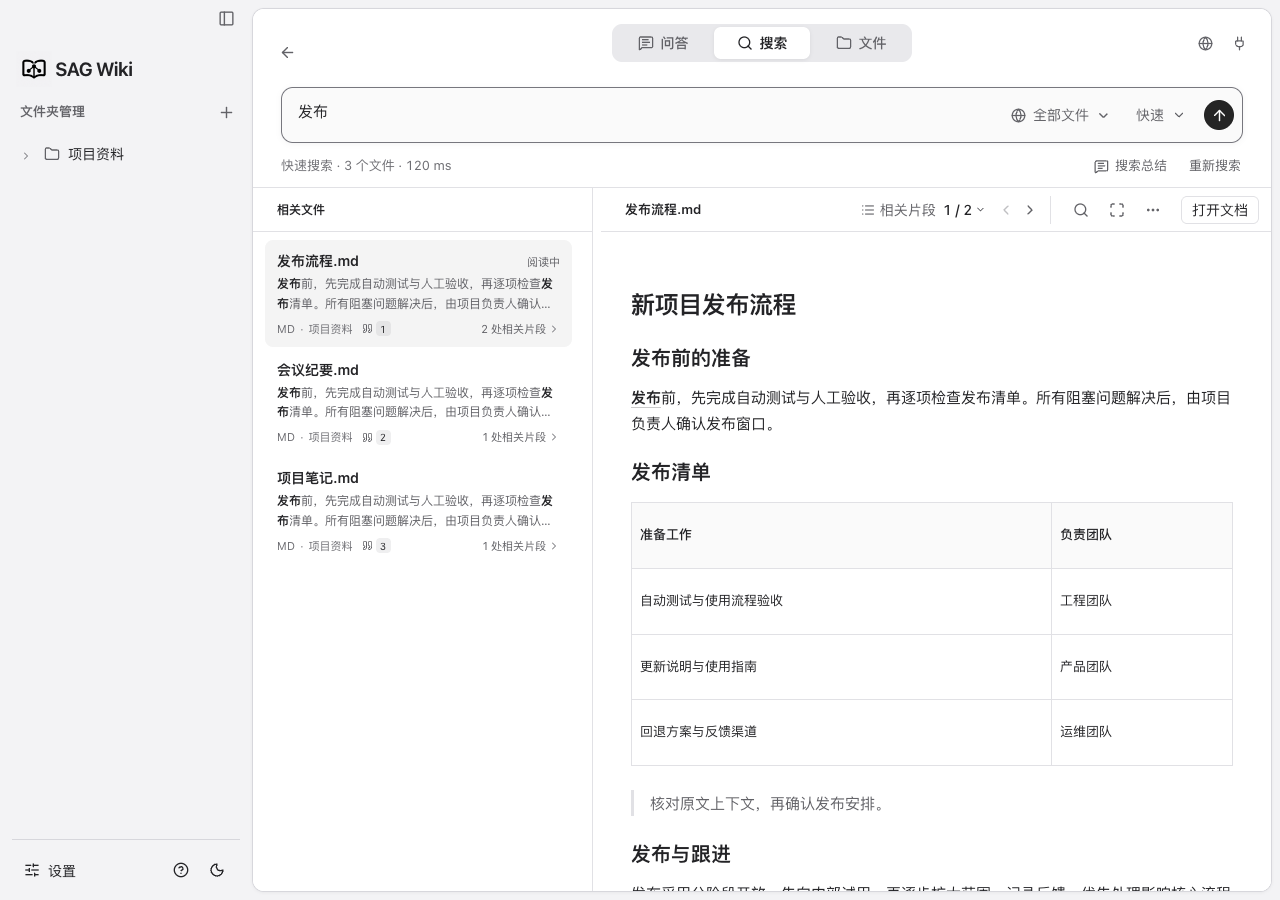
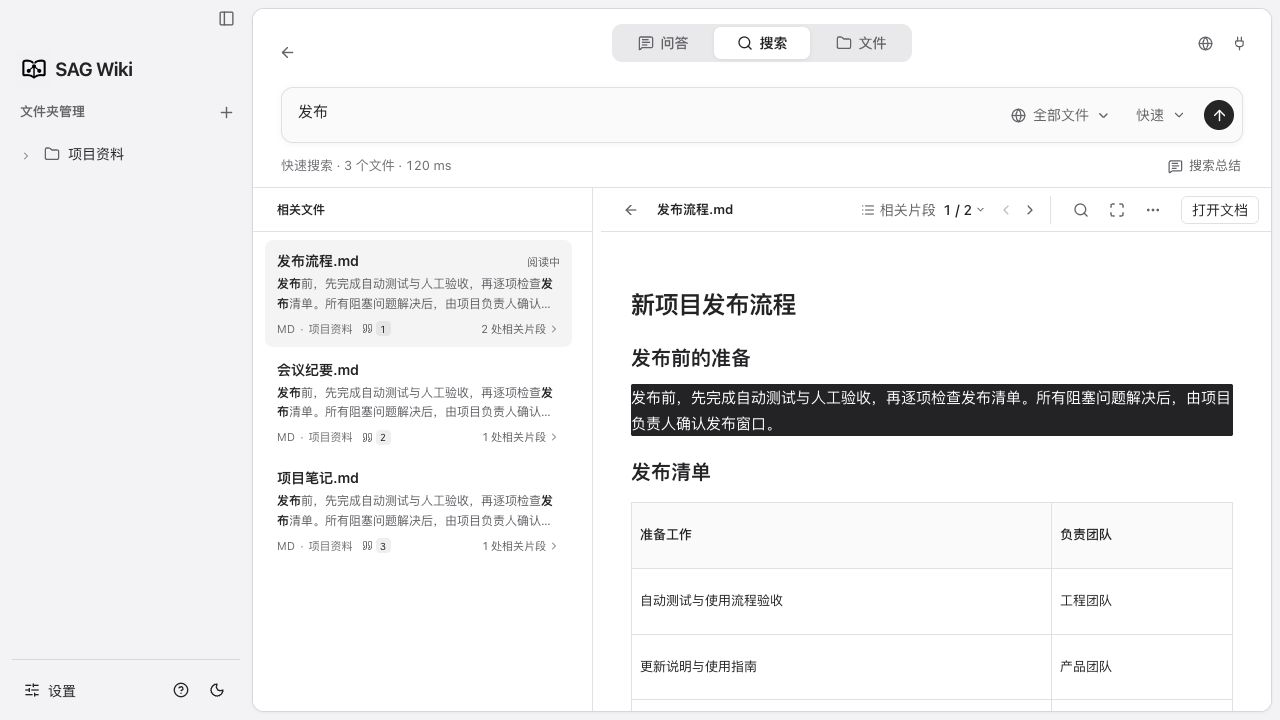
改进搜索总结与原文定位，并增加定时更新检查 (#37)
* fix(deps): upgrade happy-dom to patched 21.0.4

(cherry picked from commit 9705204ac150d03efa43309f93f8d2c8482a92df)

* Improve search summaries, highlights and periodic update checks

(cherry picked from commit cfd964785a4ece03ea74da3f2a4949b443de70a7)

* Fix source passage highlighting for semantic search

(cherry picked from commit 020c91a48fe168e01bc393539ff11c484b935b6b)

* Fix search passage scrolling and desktop file watching

(cherry picked from commit 6b19e303b3cd934da40280342780c6f702d762cf)

* Fix HTML search paragraph highlight contrast

---------

diff --git a/src/App.svelte b/src/App.svelte
@@ -56,7 +56,7 @@
  $:if(selected&&!librarySessions[selected])librarySessions={...librarySessions,[selected]:createLibrarySession()};
  let roots:Root[]=[],files:FileInfo[]=[],conversations:Conversation[]=[],settings:Settings|null=null,cache:Record<string,Entry[]>={},expanded=new Set<string>(JSON.parse(localStorage.getItem('sag.sidebar.expanded')??'[]'));
  let readOnlyDoc:Document|null=null;let searchTerms:string[]=[],documentSearchTerms:string[]=[];
- let previewReader:{doc:Document;Reader:typeof import('./components/MarkdownReader.svelte').default;model:import('./lib/document-model').MarkdownModel;target:number}|null=null;
+ let previewReader:{doc:Document;Reader:typeof import('./components/MarkdownReader.svelte').default;model:import('./lib/document-model').MarkdownModel;target:number;terms:string[]}|null=null;
 let previewDocument:Document|null=null,previewInitialMatch=0,previewLoading=false,previewError='',previewRequest=0;
  let view='ask',selected='',readingFolder='',collapsed=false,conversation:Conversation|null=null,ask='',search='',searched=false,results:Candidate[]=[],focus:Candidate|null=null,preview='',source:Candidate|null=null;
  let sidebarMotion=false,sidebarAnimations:Animation[]=[];
@@ -368,6 +368,7 @@ let previewDocument:Document|null=null,previewInitialMatch=0,previewLoading=fals
  async function stopSummary(){const id=summaryJob;summaryJob='';summaryBusy=false;if(id)await api('cancel_query',{id});}
  async function summarizeSearch(question:string,candidates:Candidate[]){
   if(settings?.search_summary_enabled===false||!candidates.length||!answerReady)return;
+  summarySelected=true;lastSearchFocus=candidates[0];
   const id=crypto.randomUUID();summaryJob=id;summaryBusy=true;summaryError='';summaryText='';summaryEvidence=documentResults(candidates).slice(0,settings?.search_summary_sources??10).map(group=>group.first);
   try{const output=await api<{text:string;evidence:Candidate[]}>('summarize_search',{id,question,results:summaryEvidence});if(summaryJob===id){summaryText=output.text;summaryEvidence=output.evidence}}
   catch(e){if(summaryJob===id)summaryError=$t(String(e))}
@@ -454,7 +455,7 @@ let previewDocument:Document|null=null,previewInitialMatch=0,previewLoading=fals
    const output=await api<QueryOutput>('run_query',{query:{id,kind,question,scope,references:kind==='ask'?references:[],model:settings.answer.model,conversation_id:kind==='ask'?conversationId:null,replace_from:replaceFrom??null,page:kind==='search'?(page??1):null}});
    if((kind==='ask'?askJob:searchJob)!==id)return;
    if(kind==='ask'){conversation=output.conversation;pending=null;references=[];await history()}
-   else{searchTerms=output.terms||[];results=output.results;searchRanked=kind==='deep_search';searchElapsed=output.elapsed_ms??null;searchPagination=kind==='deep_search'?{total:documentResults(output.results).length,page:1,page_size:20}:output.pagination??null;searchPage=searchPagination?.page??1;await tick();if(searchList)searchList.scrollTop=0;if(page===undefined){activeResult=0;passagesOpen=false}const kept=results.find(c=>c.path===focus?.path);if(kept)void focusResult(kept,true);else if(results.length)void focusResult(results[0]);else{focus=null;previewRequest++}if(page===undefined)void summarizeSearch(question,output.results);}
+   else{searchTerms=output.terms||[];results=output.results;searchRanked=kind==='deep_search';searchElapsed=output.elapsed_ms??null;searchPagination=kind==='deep_search'?{total:documentResults(output.results).length,page:1,page_size:20}:output.pagination??null;searchPage=searchPagination?.page??1;await tick();if(searchList)searchList.scrollTop=0;if(page===undefined){activeResult=0;passagesOpen=false;void summarizeSearch(question,output.results)}if(page!==undefined||!summarySelected){const kept=results.find(c=>c.path===focus?.path);if(kept)void focusResult(kept,true);else if(results.length)void focusResult(results[0]);else{focus=null;previewRequest++}}}
   }catch(e){
    if((kind==='ask'?askJob:searchJob)===id){
     if(kind==='ask'){error=$t(String(e));if(pending)pending={...pending,status:'failed',error};await history()}
@@ -465,7 +466,7 @@ let previewDocument:Document|null=null,previewInitialMatch=0,previewLoading=fals
    else if(searchJob===id){searchBusy=false;paging=false;searchPage=searchPagination?.page??1;searchStage='';searchJob=''}
   }
  }
-// Search results prioritize source reading; the summary is an explicit secondary view.
+// New searches open the automatic summary; selecting a result opens its source.
  let activeResult=0,resultsFocused=false,passagesOpen=false,passageReturn:HTMLElement|null=null;
  let searchFocusMode=false,summarySelected=false,lastSearchFocus:Candidate|null=null;
  let previewFindOpen=false,previewFindDraft='',previewFindTerm='',previewFindInput:HTMLInputElement;
@@ -475,7 +476,7 @@ let previewDocument:Document|null=null,previewInitialMatch=0,previewLoading=fals
  $:focusedGroup=focus?rankedGroups.find(group=>group.first.path===focus?.path):null;
  $:focusedPassages=focusedGroup?.matches??(focus?[focus]:[]);
  $:passageIndex=Math.max(0,focusedPassages.findIndex(c=>c.id===focus?.id));
- $:readerTerms=previewFindOpen&&previewFindTerm?[previewFindTerm]:searchTerms;
+ $:readerTerms=previewFindOpen?(previewFindTerm?[previewFindTerm]:searchTerms):previewReader?.doc===previewDocument?previewReader.terms:searchTerms;
  $:readerMemoryKey=previewDocument?JSON.stringify([searchSession,searchGeneration,previewDocument.path,previewDocument.hash,previewFindTerm]):'';
  $:if(view!=='search'){passagesOpen=false;searchFocusMode=false;}
 
@@ -541,17 +542,19 @@ let previewDocument:Document|null=null,previewInitialMatch=0,previewLoading=fals
    const remembered=rememberedCandidates.get(candidate.path);
    const c=restore&&remembered?remembered:candidate;
    if(focus?.id===c.id&&previewDocument&&!previewLoading&&restore){summarySelected=false;return;}
-   restorePreview=restore;summarySelected=false;previewFindOpen=false;previewFindDraft='';previewFindTerm='';
+   restorePreview=false;summarySelected=false;previewFindOpen=false;previewFindDraft='';previewFindTerm='';
   const index=groups.findIndex(group=>group.first.path===c.path);if(index>=0)activeResult=index;
   focus=c;rememberedCandidates.set(c.path,c);previewDocument=null;preview='';previewError='';previewLoading=true;const request=++previewRequest;
   try{
    const doc=await api<Document>('read_document',{path:c.path});
    if(request!==previewRequest||focus?.id!==c.id)return;
    if(isMarkdown(c.path)&&!legacyPreview()){
-    const [{markdownModel,candidateRanges},{default:Reader}]=await Promise.all([import('./lib/document-model'),import('./components/MarkdownReader.svelte')]);
+    const [{markdownModel,candidateRanges,modelCitationTerms},{default:Reader}]=await Promise.all([import('./lib/document-model'),import('./components/MarkdownReader.svelte')]);
     if(request!==previewRequest||focus?.id!==c.id)return;
-    const model=markdownModel(doc);
-    previewReader={doc,Reader,model,target:candidateRanges(model,c)[0].from};previewDocument=doc;preview='';
+    const model=markdownModel(doc),ranges=candidateRanges(model,c);
+    const terms=await modelCitationTerms(model,c,ranges);
+    if(request!==previewRequest||focus?.id!==c.id)return;
+    previewReader={doc,Reader,model,target:ranges[0].from,terms};previewDocument=doc;preview='';
     if(doc.hash!==c.hash)previewError=$t('原文件已更新，以下显示当前内容。');
     return;
    }
@@ -606,7 +609,7 @@ let previewDocument:Document|null=null,previewInitialMatch=0,previewLoading=fals
  <div class="composer-wrap"><Popover.Root bind:open={mention}><Popover.Portal to=".real-client"><Popover.Content class="mention-picker" customAnchor={composer} collisionBoundary={workspaceContent} side={mentionSide} sideOffset={6} collisionPadding={8} align="start" trapFocus={false} onOpenAutoFocus={event=>event.preventDefault()} onCloseAutoFocus={event=>event.preventDefault()}><div class="mention-heading">{$t("@ 引用文件")}</div>{#if !files.length}<div class="mention-empty" aria-live="polite">{@html icon('folder')}<strong>{$t('知识库还没有可引用的文件')}</strong><p>{$t('添加文件夹并完成索引后，就可以用 @ 选择要引用的文件。')}</p><Button.Root type="button" class="outline mention-add-folder" onclick={()=>{mention=false;add()}}>{@html icon('plus')}{$t('添加文件夹')}</Button.Root></div>{:else if !mentions.length}<div class="mention-empty" aria-live="polite">{@html icon('search')}<strong>{$t('没有匹配的文件')}</strong><p>{$t('试试其他文件名或路径关键词。')}</p></div>{:else}<div class="mention-options" role="listbox" aria-label={$t("引用文件")}>{#each mentions as f,i}<Button.Root role="option" aria-selected={i===mentionIndex} onmousedown={(event:MouseEvent)=>{event.preventDefault();(()=>reference(f.path))();}}>{@html icon('file')}<span><strong>{f.name}</strong><small>{displayPath(f.path)}</small></span></Button.Root>{/each}</div><div class="mention-help">{$t("↑ ↓ 选择 · Enter 引用 · Esc 关闭")}</div>{/if}</Popover.Content></Popover.Portal></Popover.Root><form class="composer" class:busy bind:this={composer} use:mentionPlacement on:submit|preventDefault={()=>run('ask')}><div class="reference-chips">{#each references as path}<span class="reference-chip">{@html icon('file')}<span>{basename(path)}</span><Button.Root type="button" aria-label={$t("移除引用 {value0}",{value0:basename(path)})} onclick={()=>references=references.filter(p=>p!==path)}>{@html icon('close')}</Button.Root></span>{/each}</div><Textarea aria-label={$t("向你的文件提问")} bind:ref={askInput} bind:value={ask} oninput={mentionUpdate} onkeydown={askKey} onkeyup={compositionKeyUp} oncompositionstart={compositionStart} oncompositionend={compositionEnd} placeholder={busy?$t("回答生成中，可以先输入下一个问题…"):$t("向你的文件提问，输入 @ 引用文件…")}/><div class="composer-bottom"><div class="composer-options"><Button.Root class="scope-button" type="button" aria-haspopup="dialog" aria-expanded={scopeOpen} onclick={scopeShow}>{@html icon(scope.length?'folder':'globe')}<span>{scopeLabel}</span>{@html icon('down')}</Button.Root></div><div class="composer-model-controls">{#if settings}<ContextUsage context={busy?pending?.context:conversation?.messages.at(-1)?.context} limit={settings.answer_context_tokens??65536} loading={busy&&!pending?.context}/><ReasoningControl model={settings.answer.model} models={settings.answer.models} onModelChange={model=>{if(settings)settings={...settings,answer:{...settings.answer,model}}}} endpoint={settings.answer.url} value={settings.model_profiles?.[settings.answer.model]?.reasoning_effort} disabled={busy} onChange={setReasoning} onCommit={saveReasoning}/>{/if}{#if busy}<Button.Root type="button" class="send" aria-label={$t("停止生成")} onclick={()=>stop()}>{@html icon('stop')}</Button.Root>{:else}<Button.Root class="send" aria-label={$t("发送问题")} disabled={!ask.trim()}>{@html icon('arrow')}</Button.Root>{/if}</div></div></form></div>{#if !shownMessages.length&&!pending&&conversations.length}<section class="recent-conversations" aria-label={$t("会话列表")}><div class="recent-heading"><span>{$t("会话列表")}</span><Button.Root class="icon-button" title={$t("搜索会话")} aria-label={$t("搜索会话")} onclick={()=>historySearchOpen=true}>{@html icon('search')}</Button.Root></div><div class="recent-list">{#each conversations as c(c.id)}<div class="history-row" class:active={view==='ask'&&conversation?.id===c.id}><Button.Root class="conversation-item" title={c.title} onclick={()=>chooseHistory(c)}>{@html icon('chat')}<span>{c.title}</span></Button.Root><Timestamp value={c.updated}/><Button.Root class="history-more" aria-label={$t("{value0} 的选项",{value0:c.title})} onclick={(e:MouseEvent)=>chatMenu(e,c)}>{@html icon('more')}</Button.Root></div>{:else}<p class="history-empty">{$t("还没有问答记录")}</p>{/each}</div></section>{/if}</section></div>
  {:else if view==='search'}<section class="search-page" class:has-results={searched} aria-busy={busy}>{#if !searched}<div class="welcome search-welcome"><div class="welcome-mark" aria-hidden="true">{@html icon('search')}</div><h1>{$t("搜索你的文件")}</h1><p>{$t("查找文件内容，随时查看原文。")}</p></div>{/if}<div class="search-query-row"><form class="search-composer" class:compact={searched} on:submit|preventDefault={()=>run(searchMode)}><div class="search-entry"><Input aria-label={$t("搜索关键词")} bind:ref={searchInput} bind:value={search} onkeydown={searchKey} onkeyup={compositionKeyUp} oncompositionstart={compositionStart} oncompositionend={compositionEnd} placeholder={$t("输入关键词或问题，搜索你的文件…")}/></div><div class="search-composer-bottom"><Button.Root class="scope-button" type="button" aria-haspopup="dialog" aria-expanded={scopeOpen} onclick={scopeShow}>{@html icon(scope.length?'folder':'globe')}<span>{scopeLabel}</span>{@html icon('down')}</Button.Root><div class="search-composer-actions"><Select class="search-mode" label={$t("搜索模式")} value={searchMode} onValueChange={changeSearchMode} disabled={busy} items={[{value:"deep_search",label:jevReady?$t("深入"):$t("深入（需配置 Jev）")},{value:"search",label:$t("快速")}]}/>{#if busy}<Button.Root type="button" class="send" aria-label={$t("停止搜索")} onclick={()=>stop()}>{@html icon('stop')}</Button.Root>{:else}<Button.Root class="send" aria-label={$t("搜索文件")} disabled={!search.trim()}>{@html icon('arrow')}</Button.Root>{/if}</div></div></form></div>
  {#if !searched&&searchHistory.length}<section class="search-history" aria-label={$t("最近搜索")}><div class="search-history-heading"><span>{$t("最近搜索")}</span><Button.Root class="icon-button" aria-label={$t("清空搜索历史")} title={$t("清空搜索历史")} onclick={clearSearchHistory}>{@html icon('delete')}</Button.Root></div><div class="search-history-items">{#each searchHistory as question}<Button.Root class="search-history-item" title={question} onclick={()=>{search=question;void run(searchMode)}}>{@html icon('search')}<span>{question}</span></Button.Root>{/each}</div></section>{/if}{#if searched}
- <div class="search-options-row"><div class="search-summary"><span aria-live="polite">{searchStopped?$t("已停止搜索 · "):''}{busy&&!paging?$t(searchJobKind==='deep_search'?"深入搜索中":"快速搜索中"):`${searchRanked?$t("深入搜索"):$t("快速搜索")} · ${$t("{value0} 个文件",{value0:searchPagination?.total??groups.length})}`}{#if searchElapsed!==null&&!(busy&&!paging)}{' · '}{searchElapsed<1000?`${searchElapsed} ms`:$t("{value0} 秒",{value0:(searchElapsed/1000).toFixed(1)})}{/if}</span></div><div class="search-options-actions">{#if showSummary}<Button.Root class="search-summary-toggle" aria-label={$t('搜索总结')} aria-pressed={summarySelected} onclick={toggleSearchSummary}>{@html icon('chat')}<span>{$t('搜索总结')}</span>{#if summaryBusy}<span class="summary-running" aria-hidden="true"></span>{/if}</Button.Root>{/if}<Button.Root class="search-new-query" onclick={()=>resetSearch().catch(e=>notify($t(String(e))))}>{$t('重新搜索')}</Button.Root></div></div>
+ <div class="search-options-row"><div class="search-summary"><span aria-live="polite">{searchStopped?$t("已停止搜索 · "):''}{busy&&!paging?$t(searchJobKind==='deep_search'?"深入搜索中":"快速搜索中"):`${searchRanked?$t("深入搜索"):$t("快速搜索")} · ${$t("{value0} 个文件",{value0:searchPagination?.total??groups.length})}`}{#if searchElapsed!==null&&!(busy&&!paging)}{' · '}{searchElapsed<1000?`${searchElapsed} ms`:$t("{value0} 秒",{value0:(searchElapsed/1000).toFixed(1)})}{/if}</span></div><div class="search-options-actions">{#if showSummary}<Button.Root class="search-summary-toggle" aria-label={$t('搜索总结')} aria-pressed={summarySelected} onclick={toggleSearchSummary}>{@html icon('chat')}<span>{$t('搜索总结')}</span>{#if summaryBusy}<span class="summary-running" aria-hidden="true"></span>{/if}</Button.Root>{/if}</div></div>
  {#if searchError}<p class="form-error" role="alert">{$t(searchError)}{#if searchError===$t("请在设置中填写 Jev API 密钥")}<Button.Root class="settings-error-link" onclick={()=>{settingsPage="jev";settingsOpen=true}}>{$t("前往设置")}</Button.Root>{/if}</p>{/if}{#if busy&&!paging}
  <div class="search-loading" role="status" aria-live="polite" aria-atomic="true"><div class="search-skeleton" aria-hidden="true">{#each [0,1,2,3] as row}<span style={`--row:${row}`}></span>{/each}</div><strong>{searchStageText}</strong></div>
  {:else if groups.length}
@@ -620,7 +623,7 @@ let previewDocument:Document|null=null,previewInitialMatch=0,previewLoading=fals
   <article class="search-preview" class:showing-summary={!focus} class:search-finding={previewFindOpen}>
    {#if focus}
     <div class="search-preview-head">
-     <Button.Root class="icon-button search-preview-back list-only" aria-label={$t("返回结果列表")} onclick={leaveSearchReader}>{@html icon('back')}</Button.Root>
+     <Button.Root class={`icon-button search-preview-back${showSummary?'':' list-only'}`} aria-label={$t(showSummary?"返回搜索总结":"返回结果列表")} title={$t(showSummary?"返回搜索总结":"返回结果列表")} onclick={showSummary?toggleSearchSummary:leaveSearchReader}>{@html icon('back')}</Button.Root>
      <div class="search-preview-title"><strong title={sourceName(focus)}>{sourceName(focus)}</strong><span class="source-path" title={displayPath(indexedSourcePath(focus.path))}>{sourceFolder(focus.path,roots)}</span></div>
      <div class="search-preview-actions">
       <div class="search-passage-nav" role="group" aria-label={$t('相关片段')}>
@@ -637,8 +640,8 @@ let previewDocument:Document|null=null,previewInitialMatch=0,previewLoading=fals
     {#if previewFindOpen}<form class="search-find-bar" on:submit|preventDefault={applyPreviewFind}><label for="preview-find">{$t('正文查找')}</label><input id="preview-find" bind:this={previewFindInput} bind:value={previewFindDraft} placeholder={$t('输入词语，按 Enter 查找')}/><Button.Root type="submit">{$t('查找')}</Button.Root><Button.Root type="button" class="icon-button" aria-label={$t('关闭正文查找')} onclick={closePreviewFind}>{@html icon('close')}</Button.Root></form>{/if}
     {#if previewError}<p class="small muted search-preview-note" role="status">{previewError}</p>{/if}
     {#if previewLoading}<div class="search-preview-loading" role="status"><span class="search-skeleton" aria-hidden="true">{#each [0,1,2] as row}<span style={`--row:${row}`}></span>{/each}</span><span class="sr-only">{$t("正在读取文件…")}</span></div>{:else if previewDocument}
-     {#key `${previewRequest}:${previewFindTerm}`}
-      {#if isHtml(focus.path)}<HtmlDocument body={previewDocument.body} terms={readerTerms} initialMatch={previewFindTerm?0:previewInitialMatch} showNavigation={previewFindOpen} memoryKey={readerMemoryKey} restoreScroll={restorePreview}/>
+     {#key `${previewRequest}:${previewFindOpen}:${previewFindTerm}`}
+      {#if isHtml(focus.path)}<HtmlDocument paragraphHighlight body={previewDocument.body} terms={readerTerms} initialMatch={previewFindTerm?0:previewInitialMatch} showNavigation={previewFindOpen} memoryKey={readerMemoryKey} restoreScroll={restorePreview}/>
       {:else if previewReader?.doc===previewDocument}<svelte:component this={previewReader.Reader} model={previewReader.model} terms={readerTerms} target={previewFindTerm?0:previewReader.target} path={displayPath(focus.path)} showNavigation={previewFindOpen} memoryKey={readerMemoryKey} restoreScroll={restorePreview}/>
       {:else}<HighlightedDocument html={preview} terms={readerTerms} path={displayPath(focus.path)} initialMatch={previewFindTerm?0:previewInitialMatch} showNavigation={previewFindOpen} memoryKey={readerMemoryKey} restoreScroll={restorePreview}/>{/if}
      {/key}

diff --git a/src/styles/search.css b/src/styles/search.css
@@ -10,14 +10,14 @@
 .real-client .search-composer.compact .search-entry input{padding:6px 0;font-size:var(--text-reading)}
 .real-client .search-composer.compact .search-composer-bottom{flex-shrink:0;gap:10px}
 .real-client .search-composer.compact .send{width:30px;height:30px}
-/* Status on the left, the two page-level actions on the right: one line between the input and the columns. */
+/* Status on the left, the summary action on the right: one line between the input and the columns. */
 .search-options-row{display:flex;align-items:center;justify-content:space-between;gap:16px;flex-shrink:0;min-height:44px;margin:0}
 .has-results .search-options-row{padding:4px 20px 2px 28px}
 .real-client .search-summary{display:flex;align-items:center;min-width:0;margin:0;padding:0;border:0;color:var(--color-muted);font-size:var(--text-caption);font-variant-numeric:tabular-nums}
 .search-summary span{overflow:hidden;white-space:nowrap;text-overflow:ellipsis}
 .search-options-actions{display:flex;align-items:center;gap:2px;flex-shrink:0}
-.real-client .search-summary-toggle,.real-client .search-new-query{display:inline-flex;align-items:center;gap:6px;height:30px;min-height:30px;padding:0 10px;border-radius:7px;background:transparent;color:var(--color-secondary);font-size:var(--text-caption);white-space:nowrap}
-.real-client .search-summary-toggle:hover,.real-client .search-new-query:hover{background:var(--color-hover);color:var(--color-ink)}
+.real-client .search-summary-toggle{display:inline-flex;align-items:center;gap:6px;height:30px;min-height:30px;padding:0 10px;border-radius:7px;background:transparent;color:var(--color-secondary);font-size:var(--text-caption);white-space:nowrap}
+.real-client .search-summary-toggle:hover{background:var(--color-hover);color:var(--color-ink)}
 .search-summary-toggle .icon{width:15px;height:15px}
 .real-client .search-summary-toggle[aria-pressed=true]{background:var(--color-selected);color:var(--color-ink)}
 .summary-running{width:5px;height:5px;border-radius:50%;background:var(--color-secondary);animation:summary-pulse 1.2s ease-in-out infinite}
@@ -68,9 +68,10 @@
 .real-client .search-preview .search-preview-body img{max-width:100%;height:auto}
 .real-client .search-results .search-hit{background:transparent;color:var(--color-ink);font-weight:600;box-shadow:none;padding:0}
 .real-client .search-preview .search-hit{background:transparent;color:inherit;box-shadow:none;border-radius:2px;padding:0}
-.real-client .search-preview .search-hit.active{font-weight:550;text-decoration:underline;text-decoration-color:color-mix(in srgb,var(--color-ink) 24%,transparent);text-underline-offset:4px}
 .real-client .search-preview.search-finding .search-hit{background:color-mix(in srgb,var(--color-ink) 8%,transparent);box-decoration-break:clone;-webkit-box-decoration-break:clone}
-.real-client .search-preview.search-finding .search-hit.active{background:color-mix(in srgb,var(--color-ink) 16%,transparent)}
+.real-client .search-preview .search-active-paragraph{background:var(--color-ink);color:var(--color-paper);border-radius:2px}
+.real-client .search-preview .search-active-paragraph *{color:inherit}
+.real-client .search-preview .search-active-paragraph :is(.search-hit,code){background:transparent;color:inherit;box-shadow:none;text-decoration:none}
 /* The passage picker drops down from its control in the header. */
 .search-preview>.search-passage-picker{top:48px;right:12px;width:min(460px,calc(100% - 24px));max-height:min(520px,calc(100% - 64px))}
 .search-summary-back{display:flex;align-items:center;gap:10px;height:44px;padding:0 16px;border-bottom:1px solid var(--color-rule);font-size:13px}

diff --git a/tests/html-document.test.ts b/tests/html-document.test.ts
@@ -2,9 +2,44 @@
 import {loadDocumentBridge} from './helpers/document-bridge';
 import {afterEach,expect,it,vi} from 'vitest';
 import {mount,tick,unmount} from 'svelte';
+import {JSDOM} from 'jsdom';
 import HtmlDocument from '../src/components/HtmlDocument.svelte';
 let app:ReturnType<typeof mount>|null=null;
 afterEach(async()=>{if(app)await unmount(app);app=null;document.body.innerHTML='';});
+it.each([
+ {label:'白底黑字',style:'background-color:#fff;color:#000',color:'rgb(0, 0, 0)',background:'rgb(255, 255, 255)'},
+ {label:'透明背景黑字',style:'color:#000',color:'rgb(0, 0, 0)',background:'rgba(0, 0, 0, 0)'},
+ {label:'深底白字',style:'background-color:#111;color:#fff',color:'rgb(255, 255, 255)',background:'rgb(17, 17, 17)'},
+])('选中 HTML 段落时保留原文对比度：$label',async({style,color,background})=>{
+ app=mount(HtmlDocument,{target:document.body,props:{body:`<p style="background-color:#fff;color:#000">needle <span style="${style}">原文内容</span></p>`,terms:['needle'],paragraphHighlight:true}});
+ await tick();
+ const frame=document.querySelector('iframe')!;
+ const doc=new DOMParser().parseFromString(frame.getAttribute('srcdoc')!,'text/html');
+ loadDocumentBridge(frame,doc);await tick();
+ expect(doc.querySelector('.search-active-paragraph')?.tagName).toBe('P');
+ // Evaluate the real generated styles after the real bridge selects a match.
+ const rendered=new JSDOM(doc.documentElement.outerHTML);
+ try{
+  const paragraph=rendered.window.document.querySelector('p')!;
+  const content=rendered.window.document.querySelector('span')!;
+  expect(rendered.window.getComputedStyle(content).color).toBe(color);
+  expect(rendered.window.getComputedStyle(content).backgroundColor).toBe(background);
+  expect(rendered.window.getComputedStyle(paragraph).backgroundColor).toBe('rgb(255, 255, 255)');
+ }finally{rendered.window.close()}
+});
+it('搜索原文按完整段落选中，嵌套列表不会连带选中父项，切换时清除旧段落',async()=>{
+ app=mount(HtmlDocument,{target:document.body,props:{body:'<ul><li>父项<ul><li><p>段首 <strong>needle</strong> 段尾。</p></li></ul></li></ul><p>下一段 needle。</p>',terms:['needle'],paragraphHighlight:true}});
+ await tick();
+ const frame=document.querySelector('iframe')!;
+ const doc=new DOMParser().parseFromString(frame.getAttribute('srcdoc')!,'text/html');
+ loadDocumentBridge(frame,doc);await tick();
+ expect(doc.querySelectorAll('.search-active-paragraph')).toHaveLength(1);
+ expect(doc.querySelector('.search-active-paragraph')?.textContent).toBe('段首 needle 段尾。');
+ expect(doc.querySelector('li.search-active-paragraph')).toBeNull();
+ document.querySelector<HTMLButtonElement>('[aria-label="下一处匹配"]')!.click();await tick();
+ expect(doc.querySelectorAll('.search-active-paragraph')).toHaveLength(1);
+ expect(doc.querySelector('.search-active-paragraph')?.textContent).toBe('下一段 needle。');
+});
 it('保留 HTML 页面样式和 SVG 图形，高亮正文并切换匹配',async()=>{
  const body='<style>p{color:red}</style><p>早先 Token</p><h2>目标 Token</h2><svg><text x="10" y="20">Token</text></svg><script>Token()</script>';
  app=mount(HtmlDocument,{target:document.body,props:{body,terms:['Token'],initialMatch:1}});

diff --git a/tests/search.test.ts b/tests/search.test.ts
@@ -9,7 +9,7 @@ vi.mock('@tauri-apps/api/window',()=>({getCurrentWindow:()=>({onCloseRequested:a
 vi.mock('@tauri-apps/plugin-dialog',()=>({open:vi.fn()}));
 let app:ReturnType<typeof mount>;
 afterEach(async()=>{await unmount(app);document.body.innerHTML='';vi.clearAllMocks()});
-const hit={id:1,document_id:1,path:'/files/open-octx.md',title:'open-octx.md',heading:'',content:'OCTX 是一种格式。第二处 octx。',start_line:1,end_line:1,source_ranges:[[1,1]],source_spans:[],bm25:-1,score:0,order:0,hash:'same'};
+const hit={id:1,document_id:1,path:'/files/open-octx.md',title:'open-octx.md',heading:'',content:'OCTX 是一种格式。',start_line:3,end_line:3,source_ranges:[[3,3]],source_spans:[],bm25:-1,score:0,order:0,hash:'same'};
 async function setup(pending=false,mode='deep_search',paginated=false,deepResults?:typeof hit[]){
  invoke.mockImplementation(async(command,args)=>{
   if(command==='get_settings')return {theme:'light',start_page:'search',editor_size:15,answer:{url:'https://example.com/v1',model:'test',models:['test'],has_key:false},jev:{url:'https://example.com/v1',model:'jev',models:[],has_key:true},retrieval:{candidate_k:50,seed_k:10,expansion_term_limit:20,max_hops:1,top_k:10,chunk_chars:512},show_hidden:false,watch:true,excluded:[],timeout_secs:120,answer_context_tokens:65536,answer_output_tokens:0};
@@ -155,9 +155,9 @@ describe('深度搜索返回状态',()=>{
 
 describe('搜索结果里的原文高亮',()=>{
  it('摘要和片段高亮，下一处移动当前位置，修改输入不影响已完成的搜索',async()=>{
-  await setup();await vi.waitFor(()=>expect(document.querySelectorAll('.search-preview .search-hit')).toHaveLength(2));
+  await setup();await vi.waitFor(()=>expect(document.querySelectorAll('.search-preview .search-hit')).toHaveLength(1));
   expect(document.querySelector('.search-result mark')!.textContent).toBe('octx');
-  expect(document.querySelector('.search-preview .search-hit.active')!.textContent).toBe('OCTX');
+  expect(document.querySelector('.search-preview .search-active-paragraph')!.textContent).toBe('OCTX 是一种格式。');
   await click('在文档中查找');await click('下一处匹配');expect(document.querySelector('.search-preview .search-hit.active')!.textContent).toBe('octx');
   const input=document.querySelector<HTMLInputElement>('[aria-label="搜索关键词"]')!;input.value='新问题';input.dispatchEvent(new Event('input',{bubbles:true}));await tick();
   expect(document.querySelectorAll('.search-preview .search-hit')).toHaveLength(2);

diff --git a/tests/app-updates.test.ts b/tests/app-updates.test.ts
@@ -19,7 +19,7 @@ const click=(text:string)=>{
  expect(button, text).toBeDefined();button!.click();
 };
 beforeEach(()=>{setLanguage('zh-CN');updateDownload.set({key:'',version:'',stage:'idle',downloaded:0,total:null,error:''});updateState.set({key:'',checking:false,info:null,error:''});invoke.mockReset();invoke.mockResolvedValue(latest)});
-afterEach(async()=>{for(const app of apps.splice(0))await unmount(app);document.body.innerHTML=''});
+afterEach(async()=>{for(const app of apps.splice(0))await unmount(app);vi.useRealTimers();document.body.innerHTML=''});
 
 it('checks at startup, shows a new-version prompt and opens About on click',async()=>{
  const onOpen=vi.fn();
@@ -29,6 +29,35 @@ it('checks at startup, shows a new-version prompt and opens About on click',asyn
  document.querySelector<HTMLButtonElement>('.update-open')!.click();await tick();
  expect(onOpen).toHaveBeenCalledOnce();
  expect(document.querySelector('.update-notification')).toBeNull();
+});
+
+it('checks every eight hours while mounted and stops checking after unmount',async()=>{
+ vi.useFakeTimers({toFake:['setInterval','clearInterval']});
+ const interval=8*60*60*1000;
+ apps.push(mount(UpdateNotification,{target:document.body,props:{config:{...defaultUpdateSettings},onOpen:vi.fn()}}));
+ await tick();expect(invoke).toHaveBeenCalledOnce();
+ await vi.advanceTimersByTimeAsync(interval-1);
+ expect(invoke).toHaveBeenCalledOnce();
+ await vi.advanceTimersByTimeAsync(1);
+ expect(invoke).toHaveBeenCalledTimes(2);
+ await vi.advanceTimersByTimeAsync(interval);
+ expect(invoke).toHaveBeenCalledTimes(3);
+ await unmount(apps.pop()!);
+ await vi.advanceTimersByTimeAsync(interval);
+ expect(invoke).toHaveBeenCalledTimes(3);
+});
+
+it('skips scheduled checks while a request is pending and retries on a later interval',async()=>{
+ vi.useFakeTimers({toFake:['setInterval','clearInterval']});
+ let resolve!:(info:UpdateInfo)=>void;
+ invoke.mockImplementationOnce(()=>new Promise<UpdateInfo>(done=>resolve=done));
+ apps.push(mount(UpdateNotification,{target:document.body,props:{config:{...defaultUpdateSettings},onOpen:vi.fn()}}));
+ await tick();expect(invoke).toHaveBeenCalledOnce();
+ await vi.advanceTimersByTimeAsync(8*60*60*1000);
+ expect(invoke).toHaveBeenCalledOnce();
+ resolve(latest);await tick();
+ await vi.advanceTimersByTimeAsync(8*60*60*1000);
+ expect(invoke).toHaveBeenCalledTimes(2);
 });
 
 it('downloads in app, keeps progress across settings navigation, and only installs on request',async()=>{

diff --git a/src/components/HighlightedDocument.svelte b/src/components/HighlightedDocument.svelte
@@ -1,5 +1,5 @@
 <script lang="ts">
- import{onDestroy,tick}from 'svelte';import{highlightedHtml}from '../lib/search-highlights';import MatchNavigation from './MatchNavigation.svelte';
+ import{onDestroy,tick}from 'svelte';import{highlightedHtml,selectSearchMatches}from '../lib/search-highlights';import MatchNavigation from './MatchNavigation.svelte';
  import {quietScroll} from '../lib/quiet-scroll';
  import {readReaderScroll,rememberReaderScroll} from '../lib/reader-scroll';
  export let html='';export let terms:string[]=[];export let path='';export let initialMatch=0;
@@ -10,16 +10,15 @@
  $:highlighted=highlightedHtml(html,terms);
  $:if(highlighted){index=0;void showDocument(highlighted);}
  async function showDocument(content:{html:string;count:number}){
-  await tick();if(content!==highlighted)return;
+  await tick();if(content!==highlighted||!host)return;
   selectMatch(Math.min(initialMatch,Math.max(0,highlighted.count-1)),!saved);
   if(saved){host.scrollTop=saved.top;host.scrollLeft=saved.left;saved=undefined}
   if(path&&host.querySelector('img[data-source]')){const {hydrateImages}=await import('../lib/markdown');await hydrateImages(host,path);}
  }
  function selectMatch(next:number,scroll=true){
   if(!highlighted.count)return;index=(next+highlighted.count)%highlighted.count;
-  host.querySelectorAll('.search-hit.active').forEach(mark=>mark.classList.remove('active'));
-  const marks=host.querySelectorAll<HTMLElement>(`[data-search-match="${index}"]`);
-  marks.forEach(mark=>mark.classList.add('active'));if(scroll)marks[0]?.scrollIntoView({block:'center'});
+  const marks=[...host.querySelectorAll<HTMLElement>(`[data-search-match="${index}"]`)];
+  selectSearchMatches(host,marks);if(scroll)marks[0]?.scrollIntoView({block:'center'});
  }
  function remember(){if(host)rememberReaderScroll(positionKey,{top:host.scrollTop,left:host.scrollLeft})}
  onDestroy(remember);

diff --git a/src/components/HtmlDocument.svelte b/src/components/HtmlDocument.svelte
@@ -6,6 +6,7 @@
  import {readReaderScroll,rememberReaderScroll} from '../lib/reader-scroll';
  export let body='';export let terms:string[]=[];export let initialMatch=0;
  export let showNavigation=true;export let memoryKey='';export let restoreScroll=false;
+ export let paragraphHighlight=false;
  let html='',count=0,index=0,ready=false,frame:HTMLIFrameElement;
  const positionKey=memoryKey;
  let saved=restoreScroll?readReaderScroll(positionKey):undefined;
@@ -22,6 +23,7 @@
   count=highlightDocument(doc,terms);ready=false;
   const style=doc.createElement('style');
   style.textContent=`mark.search-hit{background:rgba(80,80,80,.1)!important;color:inherit!important;border-radius:2px}mark.search-hit.active{background:rgba(80,80,80,.2)!important;box-shadow:0 1px 0 rgba(80,80,80,.35)}tspan.search-hit{stroke:rgba(80,80,80,.1)!important;stroke-width:4px!important;paint-order:stroke fill}tspan.search-hit.active{stroke:rgba(80,80,80,.2)!important}
+   .search-active-paragraph{outline:2px solid #777!important;outline-offset:2px;border-radius:2px}
    *{scrollbar-width:thin;scrollbar-color:transparent transparent}html.sag-scroll-active,html.sag-scroll-active *{scrollbar-color:rgba(100,100,100,.4) transparent}::-webkit-scrollbar{width:6px;height:6px}::-webkit-scrollbar-track{background:transparent}::-webkit-scrollbar-thumb{background:transparent;border-radius:6px}html.sag-scroll-active::-webkit-scrollbar-thumb,html.sag-scroll-active ::-webkit-scrollbar-thumb{background:rgba(100,100,100,.4)}`;
   doc.head.append(style);
   html='<!DOCTYPE html>'+doc.documentElement.outerHTML;
@@ -41,7 +43,7 @@
  }
  function selectMatch(next:number,scroll=true){
   index=count?(next+count)%count:0;
-  frame.contentWindow!.postMessage({type:'sag-select-match',index,scroll},'*');
+  frame.contentWindow!.postMessage({type:'sag-select-match',index,scroll,paragraph:paragraphHighlight},'*');
  }
 </script>
 

diff --git a/tests/markdown-reader.test.ts b/tests/markdown-reader.test.ts
@@ -81,6 +81,23 @@ it('搜索正文可以隐藏命中导航，同时保留目标高亮',async()=>{
  expect(document.querySelector('.match-navigation')).toBeNull();
 });
 
+it('匹配选中完整段落，跨段导航清除上一段，保留段内格式和其它段落',async()=>{
+ const model=markdownModel({path:'/paragraphs.md',body:'# 示例\n\n段首 needle **重点** 段尾 needle。\n\n下一段 needle。\n\n没有命中的段落。',hash:'paragraphs'});
+ await open({model,terms:['needle']});
+ await vi.waitFor(()=>expect(label()).toBe('1 / 3 处匹配'));
+ const paragraphs=[...document.querySelectorAll('.reader-piece p')];
+ expect(paragraphs[0].classList.contains('search-active-paragraph')).toBe(true);
+ expect(paragraphs[0].textContent).toBe('段首 needle 重点 段尾 needle。');
+ expect(paragraphs[0].querySelector('strong')?.textContent).toBe('重点');
+ document.querySelector<HTMLButtonElement>('.match-next')!.click();await tick();
+ expect(document.querySelectorAll('.search-active-paragraph')).toHaveLength(1);
+ expect(paragraphs[0].classList.contains('search-active-paragraph')).toBe(true);
+ document.querySelector<HTMLButtonElement>('.match-next')!.click();await tick();
+ expect(paragraphs[0].classList.contains('search-active-paragraph')).toBe(false);
+ expect(paragraphs[1].classList.contains('search-active-paragraph')).toBe(true);
+ expect(paragraphs[2].classList.contains('search-active-paragraph')).toBe(false);
+});
+
 it('同文件返回恢复阅读块，后台匹配不抢位置；新片段优先新目标',async()=>{
  const tasks:(()=>void)[]=[];
  vi.stubGlobal('scheduler',{postTask:(task:()=>void)=>new Promise<void>(resolve=>tasks.push(()=>{task();resolve()}))});

diff --git a/tests/search-redesign.test.ts b/tests/search-redesign.test.ts
@@ -77,6 +77,26 @@ it('片段面板 Escape 关闭并归还焦点，选择不会改变文件列表',
  expect(title()).toBe('a.md');
 });
 
+it.each(['鼠标','键盘'])('%s 切换回文件时定位高亮，不恢复偏离高亮的阅读位置',async method=>{
+ const scroll=vi.spyOn(HTMLElement.prototype,'scrollIntoView');
+ try{
+  await search();
+  await vi.waitFor(()=>expect(document.querySelector('.search-hit.active')?.textContent).toBe('甲 octx'));
+  const reader=document.querySelector<HTMLElement>('.markdown-reader')!;
+  reader.scrollTop=640;reader.dispatchEvent(new Event('scroll'));
+  const list=document.querySelector<HTMLElement>('.search-results')!;
+  if(method==='鼠标')document.querySelectorAll<HTMLElement>('.search-result')[1].click();
+  else key(list,{key:'ArrowDown'});
+  await vi.waitFor(()=>expect(document.querySelector('.search-hit.active')?.textContent).toBe('丙 octx'));
+  scroll.mockClear();
+  if(method==='鼠标')document.querySelectorAll<HTMLElement>('.search-result')[0].click();
+  else key(list,{key:'ArrowUp'});
+  await vi.waitFor(()=>expect(document.querySelector('.search-hit.active')?.textContent).toBe('甲 octx'));
+  expect(document.querySelector<HTMLElement>('.markdown-reader')!.scrollTop).not.toBe(640);
+  expect(scroll.mock.contexts).toContain(document.querySelector('.search-hit.active'));
+ }finally{scroll.mockRestore()}
+});
+
 it('正文查找与专注阅读按需展开，Escape 先关闭查找再退出专注',async()=>{
  await search();
  await vi.waitFor(()=>expect(document.querySelector('.search-preview-body')).not.toBeNull());

diff --git a/src/lib/search-highlights.ts b/src/lib/search-highlights.ts
@@ -3,6 +3,15 @@ import {escaped,isHtml,isMarkdown} from './domain';
 import type {Candidate} from './types';
 export type TextMatch={from:number;to:number};
 const segmenter=new Intl.Segmenter(undefined,{granularity:'grapheme'});
+const textBlockSelector='p,li,pre,td,th,h1,h2,h3,h4,h5,h6,div,blockquote,text';
+export function selectSearchMatches(root:ParentNode,marks:HTMLElement[]){
+ root.querySelectorAll('.search-hit.active').forEach(mark=>mark.classList.remove('active'));
+ root.querySelectorAll('.search-active-paragraph').forEach(block=>block.classList.remove('search-active-paragraph'));
+ for(const mark of marks){
+  mark.classList.add('active');
+  mark.parentElement!.closest(textBlockSelector)?.classList.add('search-active-paragraph');
+ }
+}
 export function textMatches(text:string,terms:string[]):TextMatch[]{
  const words=[...new Set(terms.map(term=>term.normalize('NFKC').toLowerCase()).filter(Boolean))].sort((a,b)=>b.length-a.length);
  if(!words.length)return [];
@@ -96,7 +105,7 @@ function textBlocks(doc:Document):Text[][]{
  while(walker.nextNode()){
   const node=walker.currentNode as Text;
   if(node.parentElement!.closest('script,style,textarea,svg'))continue;
-  const block=node.parentElement!.closest('p,li,pre,td,th,h1,h2,h3,h4,h5,h6,div,blockquote,text')||doc.body;
+  const block=node.parentElement!.closest(textBlockSelector)||doc.body;
   const nodes=groups.get(block)||[];nodes.push(node);groups.set(block,nodes);
  }
  return [...groups.values()];

diff --git a/tests/search-history.test.ts b/tests/search-history.test.ts
@@ -23,12 +23,12 @@ async function search(question:string){
  input.closest('form')!.dispatchEvent(new Event('submit',{bubbles:true,cancelable:true}));
  await vi.waitFor(()=>expect(document.querySelector('.search-page')!.getAttribute('aria-busy')).toBe('false'));
 }
-async function back(){document.querySelector<HTMLButtonElement>('.search-options-row .search-new-query')!.click();await vi.waitFor(()=>expect(document.querySelector('.search-page.has-results')).toBeNull())}
+async function back(){document.querySelector<HTMLButtonElement>('[aria-label="返回搜索"]')!.click();await vi.waitFor(()=>expect(document.querySelector('.search-page.has-results')).toBeNull())}
 it('结果页返回时清空输入，并在输入框下显示最近搜索，点击可再次搜索',async()=>{
  await start();expect(document.querySelector('[aria-label="最近搜索"]')).toBeNull();
  await search('Token 路由器');
- expect(document.querySelector('.search-options-row .search-new-query')).not.toBeNull();
- expect(document.querySelector('.search-composer .search-new-query')).toBeNull();
+ expect(document.querySelector('[aria-label="返回搜索"]')).not.toBeNull();
+ expect(document.querySelector('.search-new-query')).toBeNull();
  await back();
  expect(document.querySelector<HTMLInputElement>('[aria-label="搜索关键词"]')!.value).toBe('');
  expect(document.activeElement).toBe(document.querySelector('[aria-label="搜索关键词"]'));
